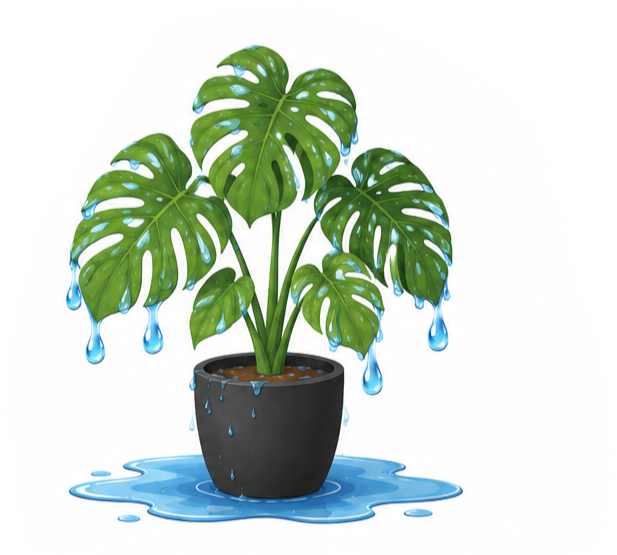
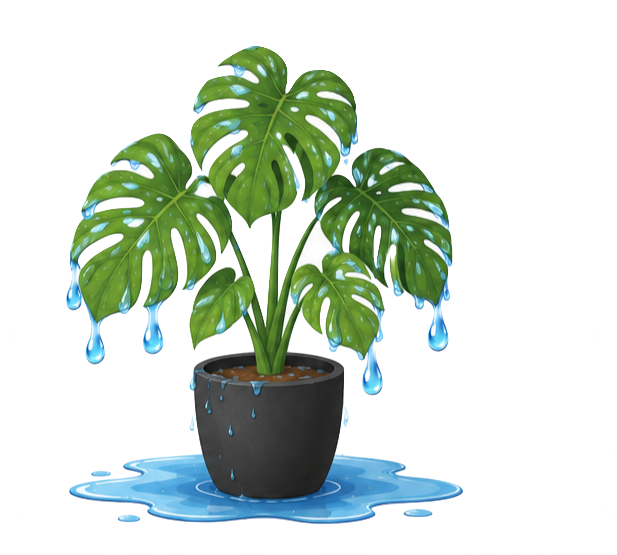
prevent new water events until completion of last

diff --git a/src/dashboard.html b/src/dashboard.html
@@ -13,7 +13,9 @@
     <span class="pill offline" id="pill"><span class="dot"></span><span id="pill-text">offline</span></span>
   </div>
   <div class="main-with-plant">
-    <img class="plant-img" id="plant-img" src="/plant/original" alt="plant">
+    <div class="plant-tile">
+      <img class="plant-img" id="plant-img" src="/plant/original" alt="plant">
+    </div>
     <div class="cards-wrapper">
       <div class="cards-top">
         <div class="card">
@@ -35,10 +37,10 @@
       </div>
       <div class="cards-bottom">
         <div class="btn-tile btn-water">
-          <button onclick="sendWater(22)">Water now (22 s)</button>
+          <button id="btn-water" onclick="sendWater(22, 'water')">Water now (22 s)</button>
         </div>
         <div class="btn-tile btn-test">
-          <button onclick="sendWater(3)">Test pump (3 s)</button>
+          <button id="btn-test"  onclick="sendWater(3, 'test')">Test pump (3 s)</button>
         </div>
       </div>
     </div>
@@ -49,7 +51,6 @@
       <div class="section-legend">
         <span class="legend-item"><span class="legend-swatch legend-shallow"></span>shallow</span>
         <span class="legend-item"><span class="legend-swatch legend-deep"></span>deep</span>
-        <span class="legend-item"><span class="legend-swatch legend-dashed"></span>gap</span>
         <span class="legend-item"><span class="legend-swatch legend-water"></span>watered</span>
       </div>
     </div>
@@ -79,8 +80,8 @@ let chart = null;
 function moistureLevel(adc) {
   if (adc < 700)  return { level: 'drenched', cls: 'word-drenched' };
   if (adc < 1400) return { level: 'wet',      cls: 'word-wet'      };
-  if (adc < 2400) return { level: 'happy',    cls: 'word-happy'    };
-  if (adc < 3400) return { level: 'dry',      cls: 'word-dry'      };
+  if (adc < 2200) return { level: 'happy',    cls: 'word-happy'    };
+  if (adc < 3000) return { level: 'dry',      cls: 'word-dry'      };
   return                  { level: 'parched', cls: 'word-parched' };
 }
 
@@ -334,11 +335,68 @@ async function loadData() {
     updateCards(d);
     renderChart(currentDays);
     renderLog(d.log);
+    checkPumpEchoes(d.log);
   } catch(e) { console.error(e); }
 }
 
-async function sendWater(duration_s) {
-  await fetch('/api/water', { method: 'POST', headers: {'Content-Type': 'application/json'}, body: JSON.stringify({duration_s}) });
+const BTN_LABELS = {
+  water: { idle: 'Water now (22 s)', busy: 'Watering...' },
+  test:  { idle: 'Test pump (3 s)',  busy: 'Testing pump...' },
+};
+
+// Per-button pending state — reverts when a matching Pump echo appears.
+// { kind: { since: ms, duration: s, fallback: timeoutId } }
+const pendingPump = {};
+
+function resetButton(kind) {
+  const btn    = document.getElementById('btn-' + kind);
+  const labels = BTN_LABELS[kind];
+  btn.disabled    = false;
+  btn.textContent = labels.idle;
+  btn.classList.remove('busy');
+  if (pendingPump[kind]) {
+    clearTimeout(pendingPump[kind].fallback);
+    delete pendingPump[kind];
+  }
+}
+
+// Called from loadData. If a Pump event with matching duration appeared
+// after our click, the action completed → reset that button.
+function checkPumpEchoes(log) {
+  const pumps = log.filter(e => e.message.Pump);
+  for (const kind of Object.keys(pendingPump)) {
+    const { since, duration } = pendingPump[kind];
+    const echo = pumps.find(p =>
+      new Date(p.timestamp).getTime() >= since - 2000 &&
+      p.message.Pump.duration_s === duration);
+    if (echo) resetButton(kind);
+  }
+}
+
+async function sendWater(duration_s, kind) {
+  const btn    = document.getElementById('btn-' + kind);
+  const labels = BTN_LABELS[kind];
+  btn.disabled    = true;
+  btn.textContent = labels.busy;
+  btn.classList.add('busy');
+
+  // Safety net: if the echo never arrives (offline / lost / etc.),
+  // give up after 3× duration so the button isn't stuck forever.
+  const since    = Date.now();
+  const fallback = setTimeout(() => {
+    if (pendingPump[kind] && pendingPump[kind].since === since) {
+      console.warn('pump echo timeout for', kind);
+      resetButton(kind);
+    }
+  }, Math.max(15000, duration_s * 3000));
+  pendingPump[kind] = { since, duration: duration_s, fallback };
+
+  try {
+    await fetch('/api/water', { method: 'POST', headers: {'Content-Type': 'application/json'}, body: JSON.stringify({duration_s}) });
+  } catch(e) {
+    console.error(e);
+    resetButton(kind);
+  }
 }
 
 loadData();

diff --git a/src/dashboard.css b/src/dashboard.css
@@ -14,10 +14,12 @@ body { font-family: system-ui, sans-serif; background: #f5f5f2; color: #1a1a18; 
 .card-sub { font-size: 12px; color: #888780; margin-top: 4px; }
 .btn-tile { border-radius: 8px; overflow: hidden; }
 .btn-tile button { display: block; width: 100%; min-height: 72px; border: none; border-radius: 8px; font-size: 14px; font-weight: 500; cursor: pointer; font-family: inherit; }
-.btn-water button { background: #e1f5ee; color: #27500a; }
+.btn-water button { background: #e1f5ee; color: #000; }
 .btn-water button:hover { background: #9fe1cb; }
+.btn-water button.busy, .btn-water button.busy:hover { background: #3a9a6a; color: #000; cursor: wait; }
 .btn-test button  { background: #d3d1c7; color: #444441; border: none; }
 .btn-test button:hover  { background: #b4b2a9; }
+.btn-test button.busy, .btn-test button.busy:hover { background: #5a5852; color: #fff; cursor: wait; }
 .section { background: white; border: 1px solid #e8e8e4; border-radius: 12px; padding: 1.25rem; margin-bottom: 1.5rem; }
 .section-label { font-size: 13px; color: #5f5e5a; font-weight: 500; margin-bottom: 12px; }
 .log-row { display: flex; align-items: center; gap: 12px; padding: 8px 0; border-bottom: 1px solid #f1efe8; font-size: 13px; }
@@ -29,7 +31,8 @@ body { font-family: system-ui, sans-serif; background: #f5f5f2; color: #1a1a18; 
 .log-msg { color: #1a1a18; }
 .empty { color: #888780; font-size: 13px; }
 .main-with-plant { display: flex; gap: 12px; align-items: stretch; margin-bottom: 1.5rem; }
-.plant-img { width: 150px; flex-shrink: 0; border-radius: 8px; object-fit: cover; object-position: center; }
+.plant-tile { width: 150px; flex-shrink: 0; background: white; border: 1px solid #e8e8e4; border-radius: 12px; padding: 8px; display: flex; align-items: center; justify-content: center; }
+.plant-img { width: 100%; height: 100%; max-height: 100%; object-fit: contain; border-radius: 8px; }
 .cards-wrapper { flex: 1; min-width: 0; }
 .cards-bottom { display: grid; grid-template-columns: repeat(2, minmax(0, 1fr)); gap: 12px; }
 .section-header { display: flex; justify-content: space-between; align-items: center; margin-bottom: 12px; }
